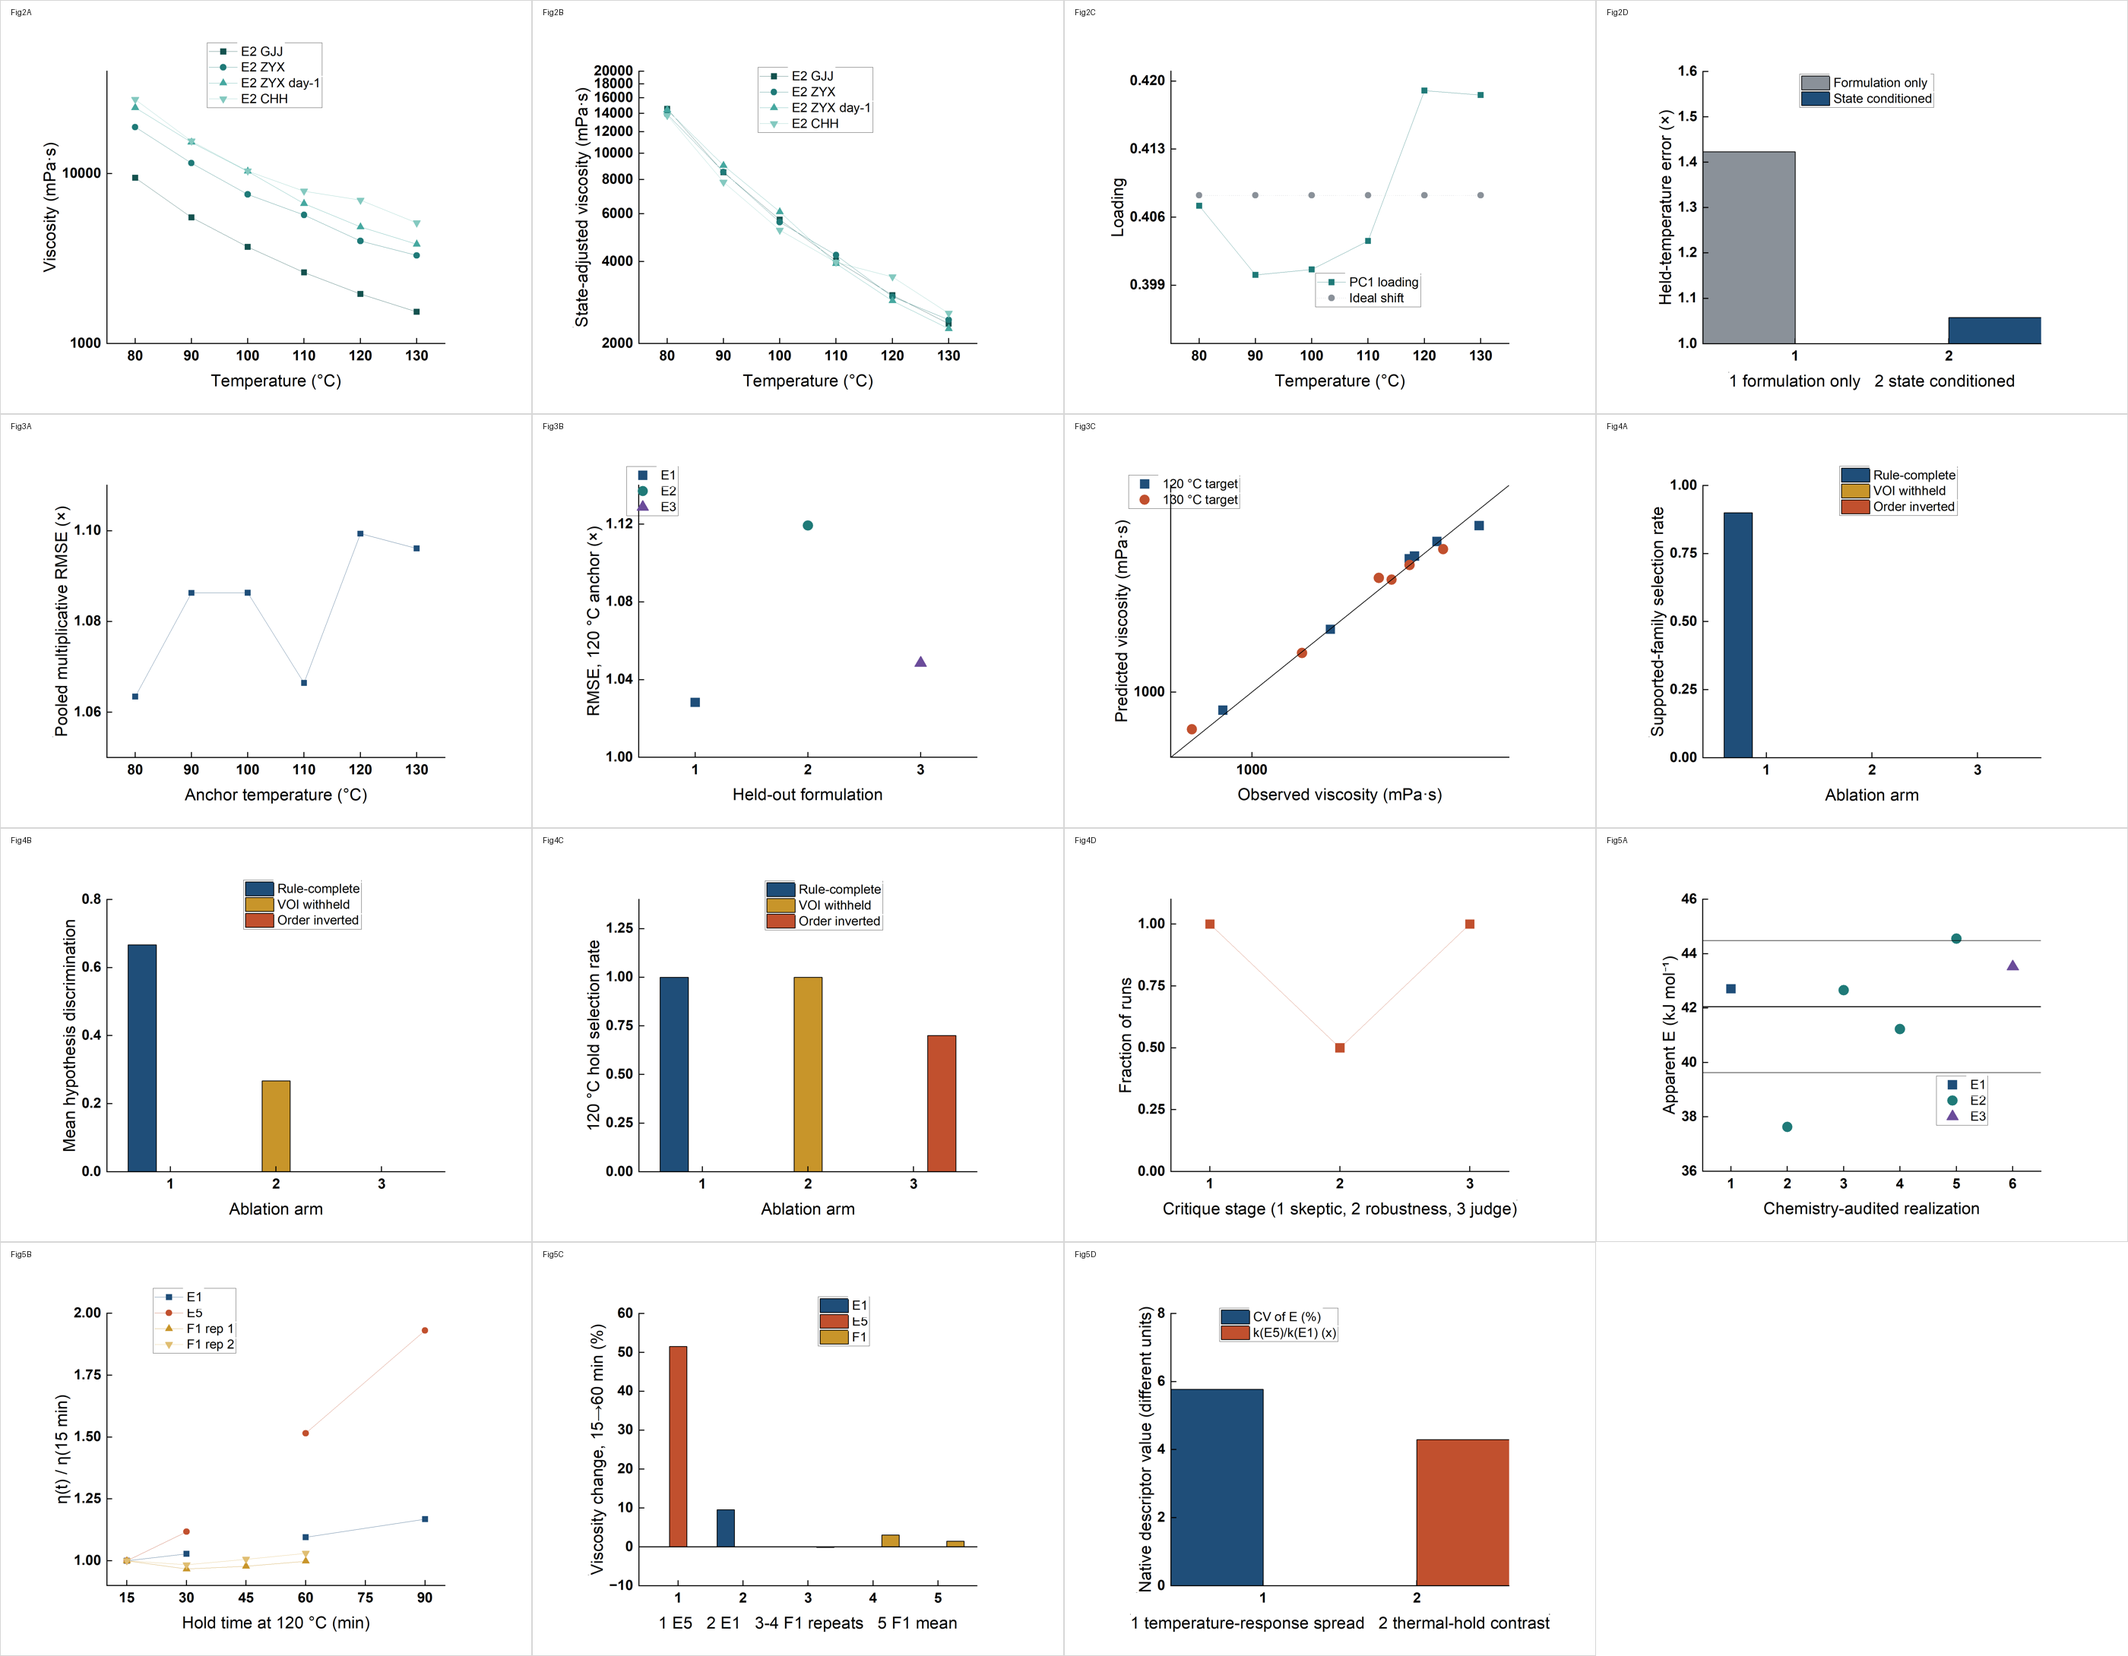
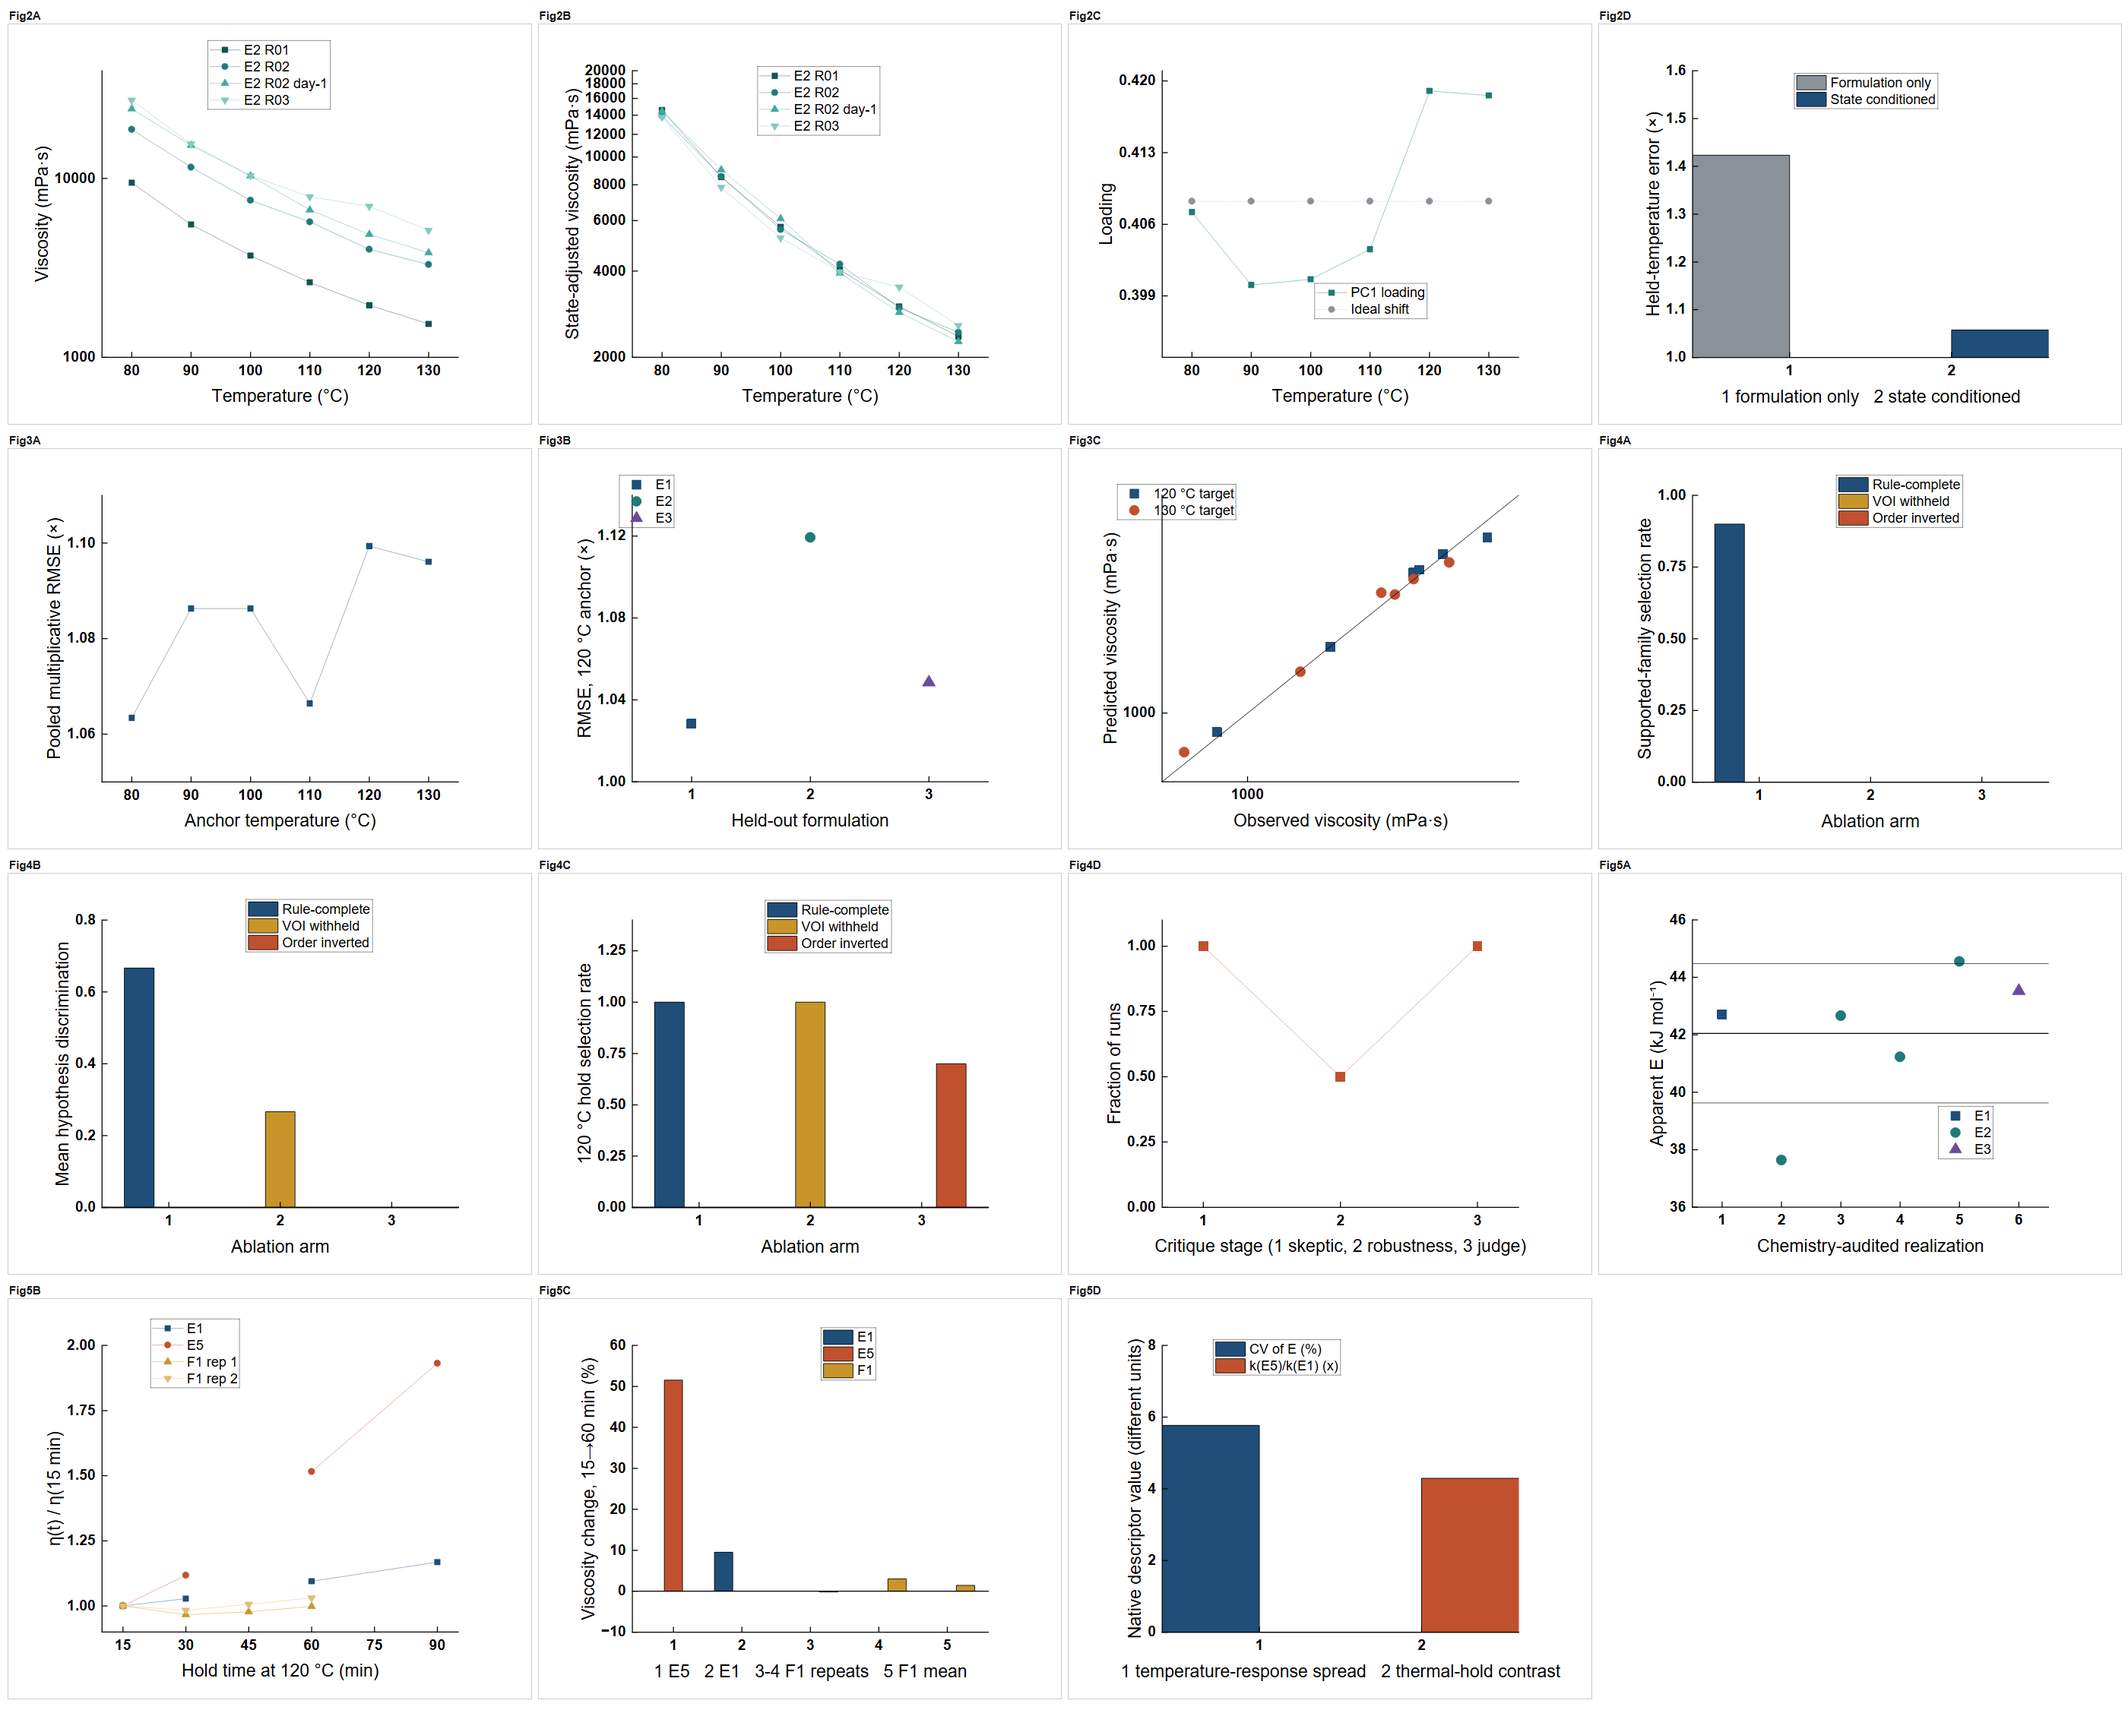
Rebuild the panel contact sheets, which still showed the old labels
The anonymization pass relabelled the panel SVGs, but both overview PNGs were
rendered before it and carry the previous realization codes as glyphs. A
grep-based leak audit cannot see text that has become pixels, so the two sheets
counted as clean while displaying exactly what the pass removed.

build_overview.py regenerates a sheet from a panel directory, so the next
relabelling does not leave the same silent gap.

diff --git a/analysis/figures_origin/scripts/build_overview.py b/analysis/figures_origin/scripts/build_overview.py
@@ -1,0 +1,62 @@
+"""Rebuild a contact sheet from a panel directory.
+
+The overview is a rendered PNG, so it carries panel text as glyphs rather than
+as strings. A grep-based label audit cannot see it, and it therefore goes stale
+silently whenever the panels are relabelled. Regenerate it from the SVGs
+whenever a panel changes.
+
+usage: build_overview.py <panels_dir> <out.png> [columns]
+"""
+import pathlib
+import re
+import subprocess
+import sys
+
+CHROME = r"C:\Program Files\Google\Chrome\Application\chrome.exe"
+
+panels_dir = pathlib.Path(sys.argv[1]).resolve()
+out_png = pathlib.Path(sys.argv[2]).resolve()
+cols = int(sys.argv[3]) if len(sys.argv) > 3 else 4
+
+
+def sort_key(p):
+    m = re.match(r"Fig(\d+)([A-Z])", p.stem)
+    return (int(m.group(1)), m.group(2)) if m else (99, p.stem)
+
+
+svgs = sorted(panels_dir.glob("*.svg"), key=sort_key)
+if not svgs:
+    sys.exit("no SVG panels in %s" % panels_dir)
+
+cells = "\n".join(
+    '<figure><figcaption>%s</figcaption><img src="%s"></figure>'
+    % (p.stem, p.name)
+    for p in svgs
+)
+html = """<!doctype html><meta charset="utf-8">
+<style>
+ body{margin:0;background:#fff;font:13px Arial,Helvetica,sans-serif;color:#111}
+ .g{display:grid;grid-template-columns:repeat(%d,1fr);gap:10px;padding:10px}
+ figure{margin:0}
+ img{width:100%%;display:block;border:1px solid #ccc}
+ figcaption{padding:2px;font-size:15px;font-weight:700}
+</style>
+<div class="g">
+%s
+</div>
+""" % (cols, cells)
+
+tmp = panels_dir / "_overview_tmp.html"
+tmp.write_text(html, encoding="utf-8")
+rows = (len(svgs) + cols - 1) // cols
+try:
+    subprocess.run(
+        [CHROME, "--headless=new", "--disable-gpu", "--hide-scrollbars",
+         "--force-device-scale-factor=1", "--default-background-color=FFFFFFFF",
+         "--window-size=%d,%d" % (700 * cols, 560 * rows + 40),
+         "--screenshot=%s" % out_png, tmp.as_uri()],
+        check=True, capture_output=True)
+finally:
+    tmp.unlink(missing_ok=True)
+
+print("%s  <- %d panels, %d cols" % (out_png, len(svgs), cols))
